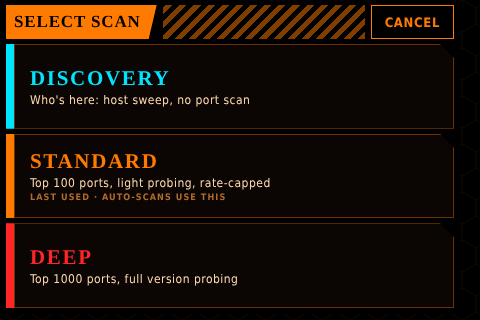
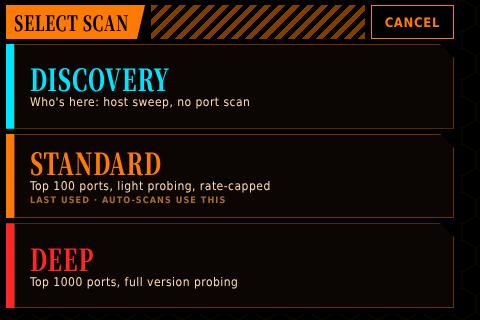
Eva-style condensed title font

diff --git a/templates/kiosk.html b/templates/kiosk.html
@@ -10,6 +10,14 @@
   The full detail lives on the browser dashboard at "/".
 -->
 <style>
+  /* Title face: "Aliana Title" -- condensed Latin cut of Noto Serif CJK JP
+     Black (SIL OFL 1.1), see static/fonts/LICENSE-AlianaTitle.txt */
+  @font-face {
+    font-family: "Aliana Title";
+    src: url("/static/fonts/AlianaTitle.otf") format("opentype");
+    font-weight: 100 900;   /* one heavy face; never synthesize bold */
+    font-display: block;
+  }
   /*
     SCREEN SAFE AREA -- the panel hides a few pixels behind its bezel.
     If anything is still cut off (or there's a gap), adjust these.
@@ -32,7 +40,7 @@
     --orange: #ff7a00;
     --green: #50ff50;
     --red: #ff2626;
-    --title: "Times New Roman", "Liberation Serif", "DejaVu Serif", serif;
+    --title: "Aliana Title", "Times New Roman", "Liberation Serif", serif;
     --cond: "DejaVu Sans Condensed", "Liberation Sans Narrow", "Arial Narrow", sans-serif;
     --mono: "DejaVu Sans Mono", ui-monospace, Consolas, monospace;
   }
@@ -76,8 +84,8 @@
     color: #000;
     font-family: var(--title);
     font-weight: bold;
-    font-size: 17px;
-    letter-spacing: 0.04em;
+    font-size: 21px;
+    letter-spacing: 0.03em;
     clip-path: polygon(0 0, 100% 0, calc(100% - 8px) 100%, 0 100%);
   }
   .brand svg { width: 20px; height: 16px; }
@@ -140,8 +148,8 @@
   .phase {
     font-family: var(--title);
     font-weight: bold;
-    font-size: 17px;
-    letter-spacing: 0.05em;
+    font-size: 21px;
+    letter-spacing: 0.02em;
     color: var(--orange);
     overflow: hidden;
     text-overflow: ellipsis;
@@ -199,15 +207,15 @@
     align-self: flex-start;
   }
   .tile .num {
-    font-size: 32px;
+    font-family: var(--title);
+    font-size: 38px;
     line-height: 38px;
-    font-weight: bold;
     color: var(--text);
     text-align: right;
     padding: 0 8px;
     white-space: nowrap;
   }
-  .tile .num.small { font-size: 22px; }
+  .tile .num.small { font-size: 30px; }
   .tile.live .num { color: var(--green); text-shadow: 0 0 8px rgba(80, 255, 80, 0.5); }
 
   /* Feed */
@@ -257,9 +265,9 @@
     background: var(--orange);
     color: #000;
     font-family: var(--title);
-    font-size: 19px;
+    font-size: 24px;
     font-weight: bold;
-    letter-spacing: 0.08em;
+    letter-spacing: 0.04em;
     touch-action: manipulation;
     clip-path: polygon(0 0, 100% 0, 100% calc(100% - 12px), calc(100% - 12px) 100%, 0 100%);
   }
@@ -300,8 +308,8 @@
     color: #000;
     font-family: var(--title);
     font-weight: bold;
-    font-size: 17px;
-    letter-spacing: 0.05em;
+    font-size: 21px;
+    letter-spacing: 0.03em;
     clip-path: polygon(0 0, 100% 0, calc(100% - 8px) 100%, 0 100%);
   }
   .wifi-head .hazard { flex: 1; width: auto; opacity: 0.5; }
@@ -398,7 +406,7 @@
     clip-path: polygon(0 0, calc(100% - 14px) 0, 100% 14px, 100% 100%, 0 100%);
     text-align: left;
   }
-  .pick .pick-name { font-family: var(--title); font-size: 21px; letter-spacing: 0.08em; }
+  .pick .pick-name { font-family: var(--title); font-size: 30px; line-height: 30px; letter-spacing: 0.03em; }
   .pick .pick-desc { font-family: var(--cond); font-size: 12px; font-weight: normal; letter-spacing: 0.04em; color: var(--text); }
   .pick .pick-default { font-family: var(--cond); font-size: 9px; letter-spacing: 0.12em; color: var(--muted); }
   .pick.discovery { color: var(--cyan); border-left-color: var(--cyan); }

diff --git a/templates/index.html b/templates/index.html
@@ -5,6 +5,14 @@
 <meta name="viewport" content="width=device-width, initial-scale=1">
 <title>Aliana Recon</title>
 <style>
+  /* Title face: "Aliana Title" -- condensed Latin cut of Noto Serif CJK JP
+     Black (SIL OFL 1.1), see static/fonts/LICENSE-AlianaTitle.txt */
+  @font-face {
+    font-family: "Aliana Title";
+    src: url("/static/fonts/AlianaTitle.otf") format("opentype");
+    font-weight: 100 900;   /* one heavy face; never synthesize bold */
+    font-display: block;
+  }
   :root {
     /* Theme: NERV-terminal inspired -- orange line work on black
        (matches the onboard screen, templates/kiosk.html) */
@@ -18,7 +26,7 @@
     --warn: #ff2626;
     --danger: #ff2626;
     --green: #50ff50;
-    --title: "Times New Roman", "Liberation Serif", "DejaVu Serif", serif;
+    --title: "Aliana Title", "Times New Roman", "Liberation Serif", serif;
   }
   * { box-sizing: border-box; }
   body {
@@ -174,8 +182,8 @@
     background: var(--accent);
     color: #000;
     font-family: var(--title);
-    font-size: 1.7rem;
-    letter-spacing: 0.05em;
+    font-size: 2.2rem;
+    letter-spacing: 0.03em;
     text-transform: uppercase;
     padding: 2px 26px 2px 10px;
     clip-path: polygon(0 0, 100% 0, calc(100% - 14px) 100%, 0 100%);
@@ -197,9 +205,8 @@
     color: #000;
     border-radius: 0;
     font-family: var(--title);
-    font-weight: bold;
-    font-size: 1rem;
-    letter-spacing: 0.08em;
+    font-size: 1.3rem;
+    letter-spacing: 0.04em;
     text-transform: uppercase;
     padding: 8px 22px 8px 16px;
     clip-path: polygon(0 0, 100% 0, 100% calc(100% - 10px), calc(100% - 10px) 100%, 0 100%);

diff --git a/templates/wifi.html b/templates/wifi.html
@@ -5,6 +5,14 @@
 <meta name="viewport" content="width=device-width, initial-scale=1">
 <title>Aliana Wi-Fi</title>
 <style>
+  /* Title face: "Aliana Title" -- condensed Latin cut of Noto Serif CJK JP
+     Black (SIL OFL 1.1), see static/fonts/LICENSE-AlianaTitle.txt */
+  @font-face {
+    font-family: "Aliana Title";
+    src: url("/static/fonts/AlianaTitle.otf") format("opentype");
+    font-weight: 100 900;   /* one heavy face; never synthesize bold */
+    font-display: block;
+  }
   :root {
     /* Theme: NERV-terminal inspired (matches index.html / kiosk.html) */
     --bg: #000;
@@ -15,7 +23,7 @@
     --accent: #ff7a00;
     --green: #50ff50;
     --red: #ff2626;
-    --title: "Times New Roman", "Liberation Serif", "DejaVu Serif", serif;
+    --title: "Aliana Title", "Times New Roman", "Liberation Serif", serif;
   }
   * { box-sizing: border-box; }
   body {
@@ -53,8 +61,8 @@
     background: var(--accent);
     color: #000;
     font-family: var(--title);
-    font-size: 1.6rem;
-    letter-spacing: 0.05em;
+    font-size: 2.1rem;
+    letter-spacing: 0.03em;
     text-transform: uppercase;
     padding: 2px 26px 2px 10px;
     clip-path: polygon(0 0, 100% 0, calc(100% - 14px) 100%, 0 100%);
@@ -102,9 +110,8 @@
     color: #000;
     border: none;
     font-family: var(--title);
-    font-weight: bold;
-    font-size: 0.95rem;
-    letter-spacing: 0.08em;
+    font-size: 1.2rem;
+    letter-spacing: 0.04em;
     text-transform: uppercase;
     padding: 8px 20px 8px 14px;
     cursor: pointer;

diff --git a/tools/build_font.py b/tools/build_font.py
@@ -1,0 +1,61 @@
+"""Builds static/fonts/AlianaTitle.otf: a Latin-only, horizontally condensed
+cut of Noto Serif CJK JP Black (SIL OFL 1.1), renamed per the OFL."""
+import sys
+from fontTools.ttLib import TTCollection
+from fontTools import subset
+from fontTools.pens.t2CharStringPen import T2CharStringPen
+from fontTools.pens.transformPen import TransformPen
+
+SRC, OUT, SCALE_X = sys.argv[1], sys.argv[2], float(sys.argv[3])
+
+font = TTCollection(SRC).fonts[0]  # Noto Serif CJK JP Black
+
+# Keep only what the UI needs: printable ASCII + a few symbols
+chars = "".join(chr(c) for c in range(0x20, 0x7F)) + "…—–·↻■ ’‘“”"
+opts = subset.Options()
+opts.layout_features = ["kern", "liga"]
+opts.hinting = False
+opts.desubroutinize = True
+opts.name_IDs = ["*"]
+opts.notdef_outline = True
+sub = subset.Subsetter(opts)
+sub.populate(text=chars)
+sub.subset(font)
+
+# Squeeze every glyph horizontally (outlines + advance widths)
+cff = font["CFF "].cff
+top = cff[cff.fontNames[0]]
+cs = top.CharStrings
+gs = font.getGlyphSet()
+hmtx = font["hmtx"].metrics
+for name in list(cs.keys()):
+    adv, lsb = hmtx[name]
+    pen = T2CharStringPen(round(adv * SCALE_X), gs)
+    gs[name].draw(TransformPen(pen, (SCALE_X, 0, 0, 1, 0, 0)))
+    new = pen.getCharString(private=cs[name].private, globalSubrs=cs[name].globalSubrs)
+    cs[name] = new
+    hmtx[name] = (round(adv * SCALE_X), round(lsb * SCALE_X))
+if "kern" in font or "GPOS" in font:
+    pass  # kerning values stay in font units; slight looseness is fine at UI sizes
+
+# Rename (OFL: modified versions must not use the original/reserved names)
+FAMILY = "Aliana Title"
+name = font["name"]
+for rec in list(name.names):
+    if rec.nameID in (1, 3, 4, 6, 16, 17, 18, 21, 22):
+        name.removeNames(nameID=rec.nameID)
+name.setName(FAMILY, 1, 3, 1, 0x409)
+name.setName("Regular", 2, 3, 1, 0x409)
+name.setName(f"{FAMILY} Regular; derived from Noto Serif CJK JP Black", 3, 3, 1, 0x409)
+name.setName(FAMILY, 4, 3, 1, 0x409)
+name.setName("AlianaTitle-Regular", 6, 3, 1, 0x409)
+name.setName("Condensed Latin subset of Noto Serif CJK JP Black, modified for the Aliana project. "
+             "Licensed under the SIL Open Font License 1.1.", 10, 3, 1, 0x409)
+top.FullName = FAMILY
+top.FamilyName = FAMILY
+top.rawDict["FullName"] = FAMILY
+cff.fontNames = ["AlianaTitle-Regular"]
+font["OS/2"].xAvgCharWidth = round(font["OS/2"].xAvgCharWidth * SCALE_X)
+font["OS/2"].usWidthClass = 3  # condensed
+font.save(OUT)
+print("wrote", OUT)
